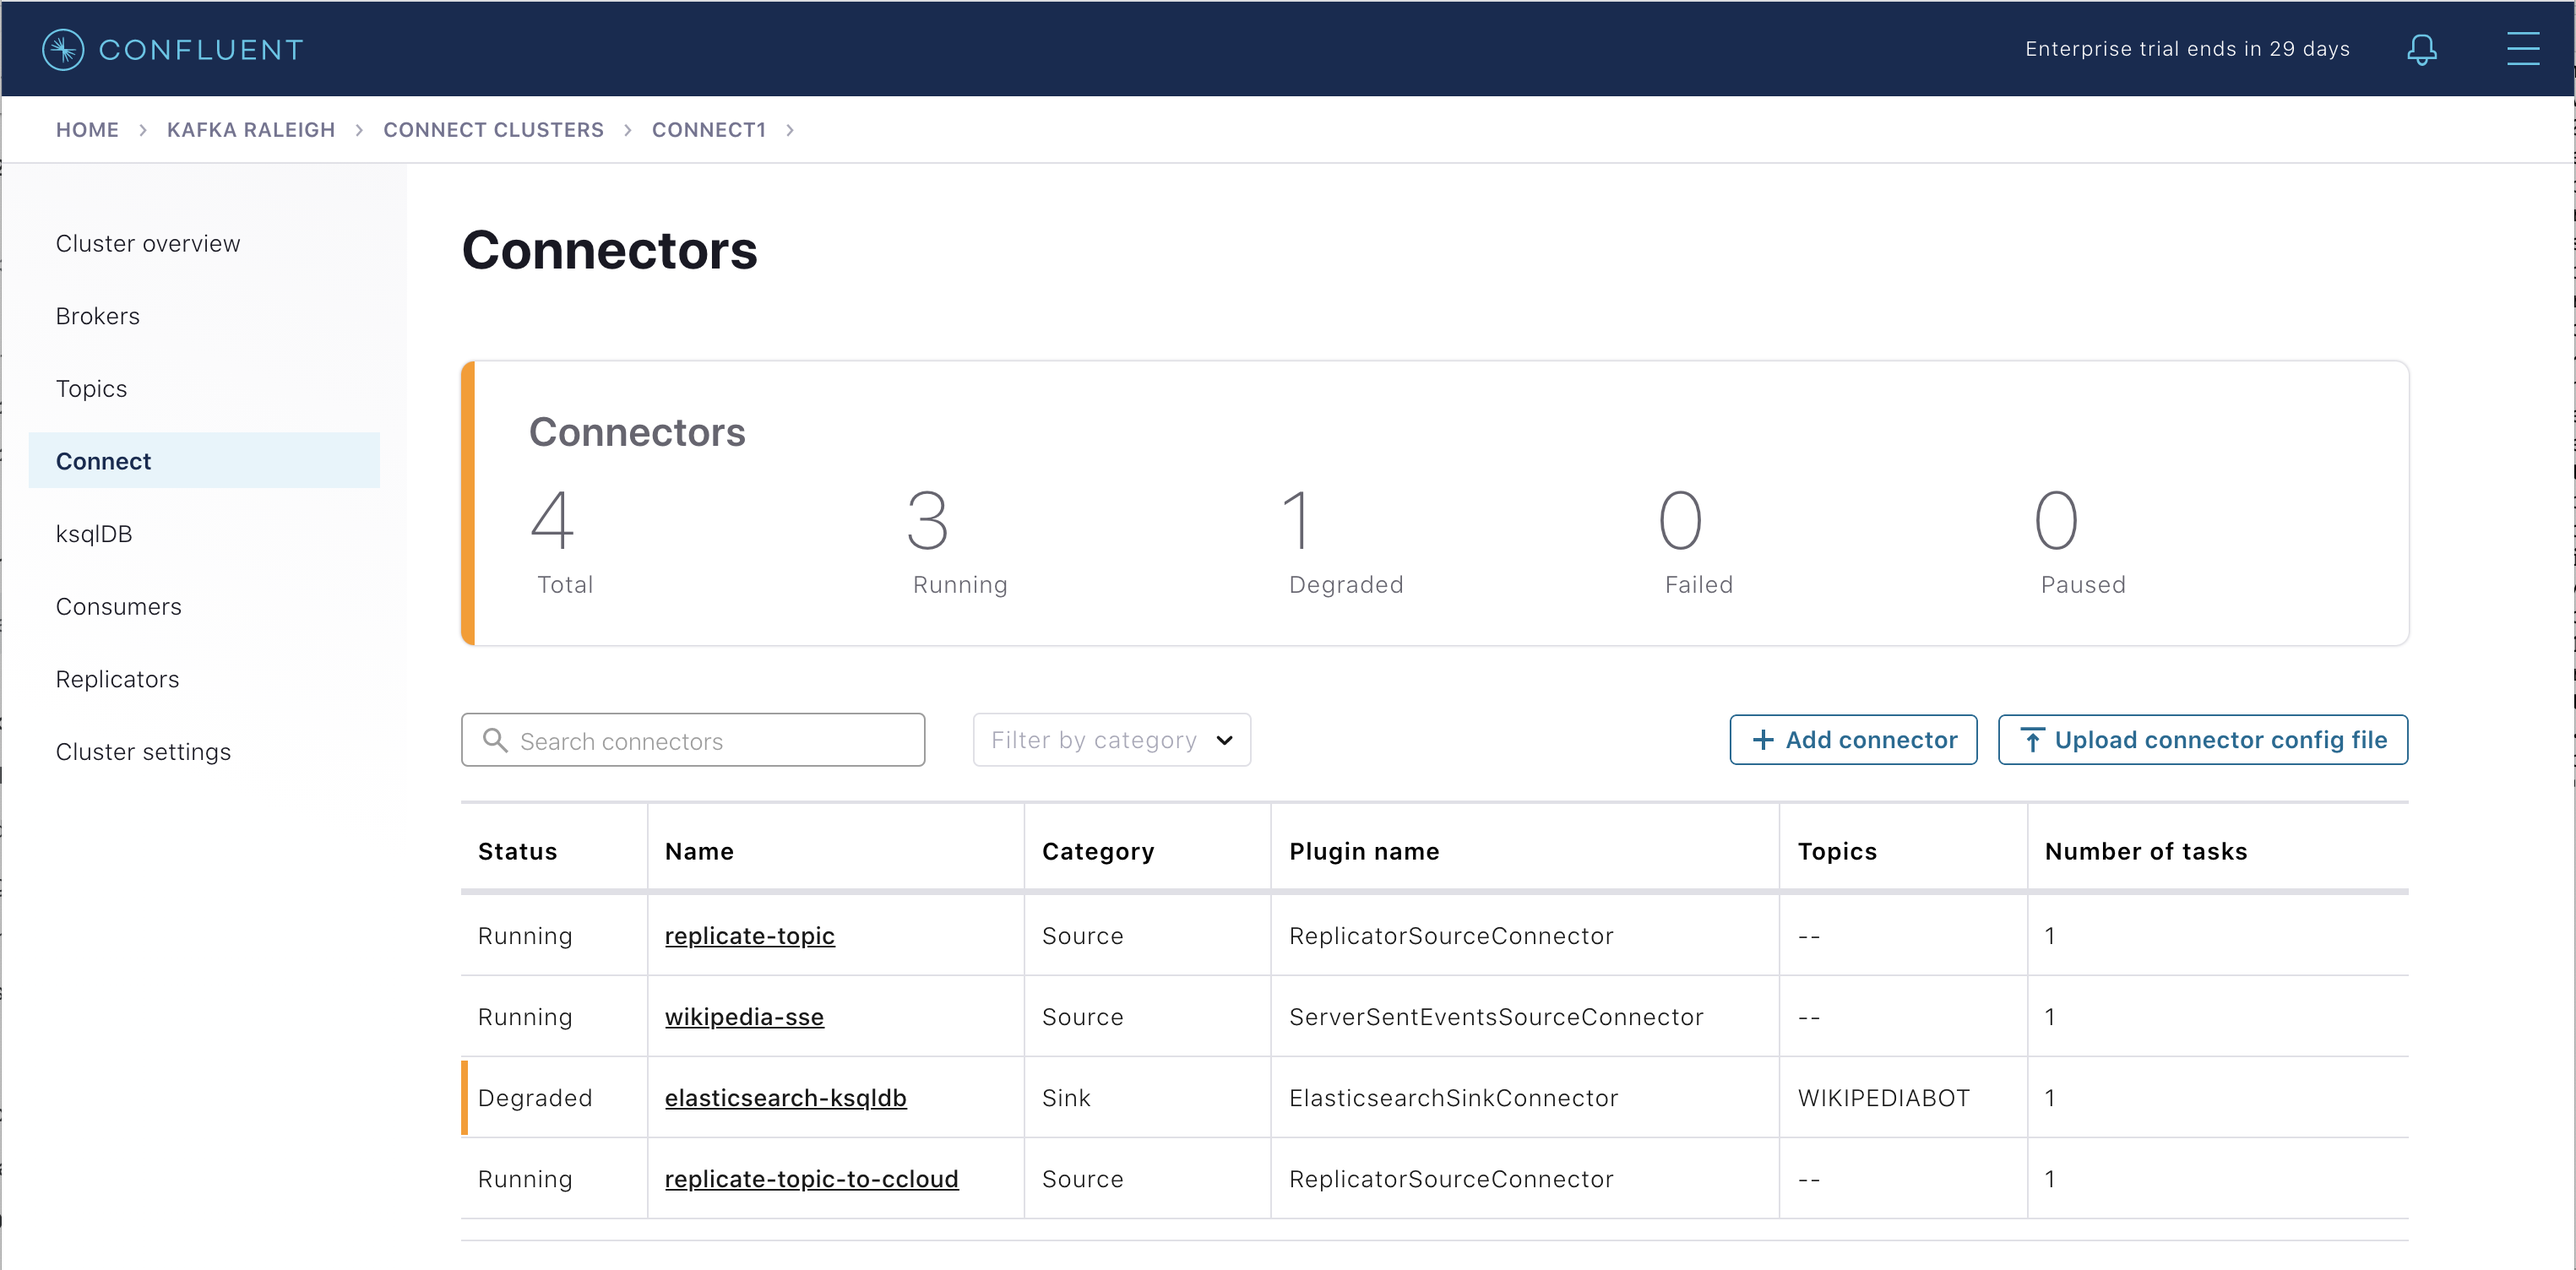
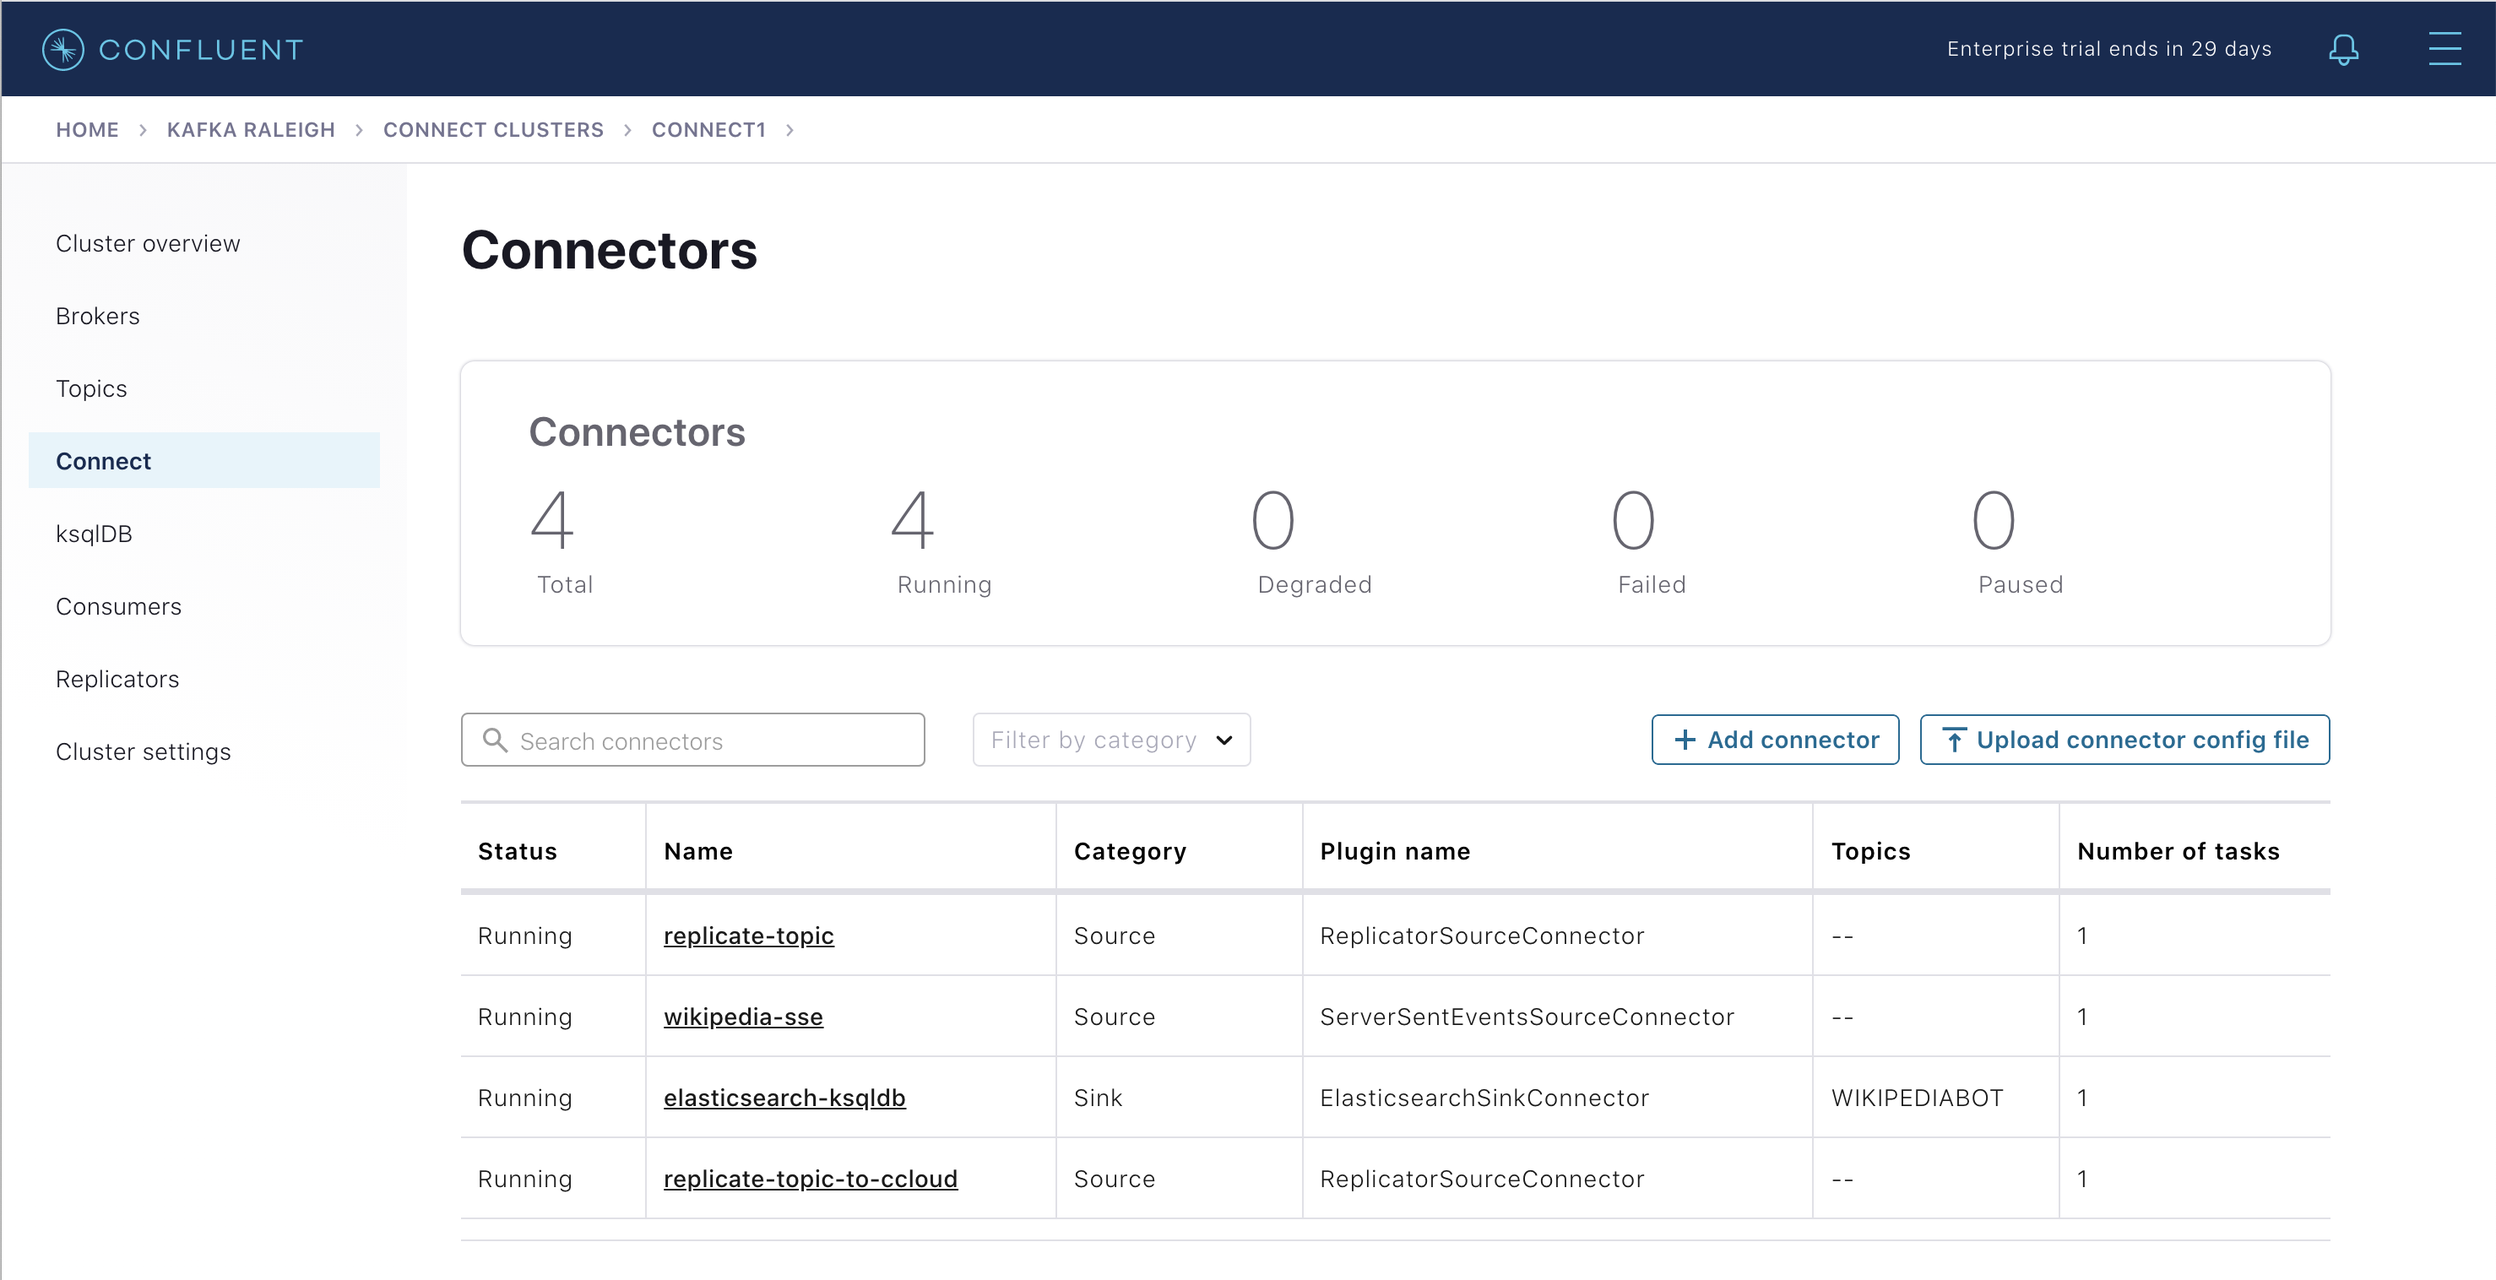
pin kafka-connect-elasticsearch:10.0.2 ; fix Replicator config ; update screenshots

diff --git a/docs/index.rst b/docs/index.rst
@@ -1422,7 +1422,7 @@ Setup |ccloud|
 
       cat stack-configs/java-service-account-*.config
 
-#. Set the environment parameter ``SERVICE_ACCOUNT_ID`` to whatever that number <SERVICE_ACCOUNT_ID> is in the filename. For example, if the filename is called ``stack-configs/java-service-account-123456.config``, then set ``SERVICE_ACCOUNT_ID=123456``.
+#. Set the environment parameter ``SERVICE_ACCOUNT_ID`` to whatever that number <SERVICE_ACCOUNT_ID> is in the filename. For example, if the filename is called ``stack-configs/java-service-account-154143.config``, then set ``SERVICE_ACCOUNT_ID=154143``.
 
    .. code-block:: text
 
@@ -1550,6 +1550,7 @@ Telemetry Reporter
 
 #. Notice that the schema for this topic was registered in |ccloud| |sr| because the |crep| ``value.converter`` was configured to be ``io.confluent.connect.avro.AvroConverter``, which means it registered new schemas on the fly.
 
+   .. figure:: images/ccloud-schema.png
 
 Metrics
 -------
